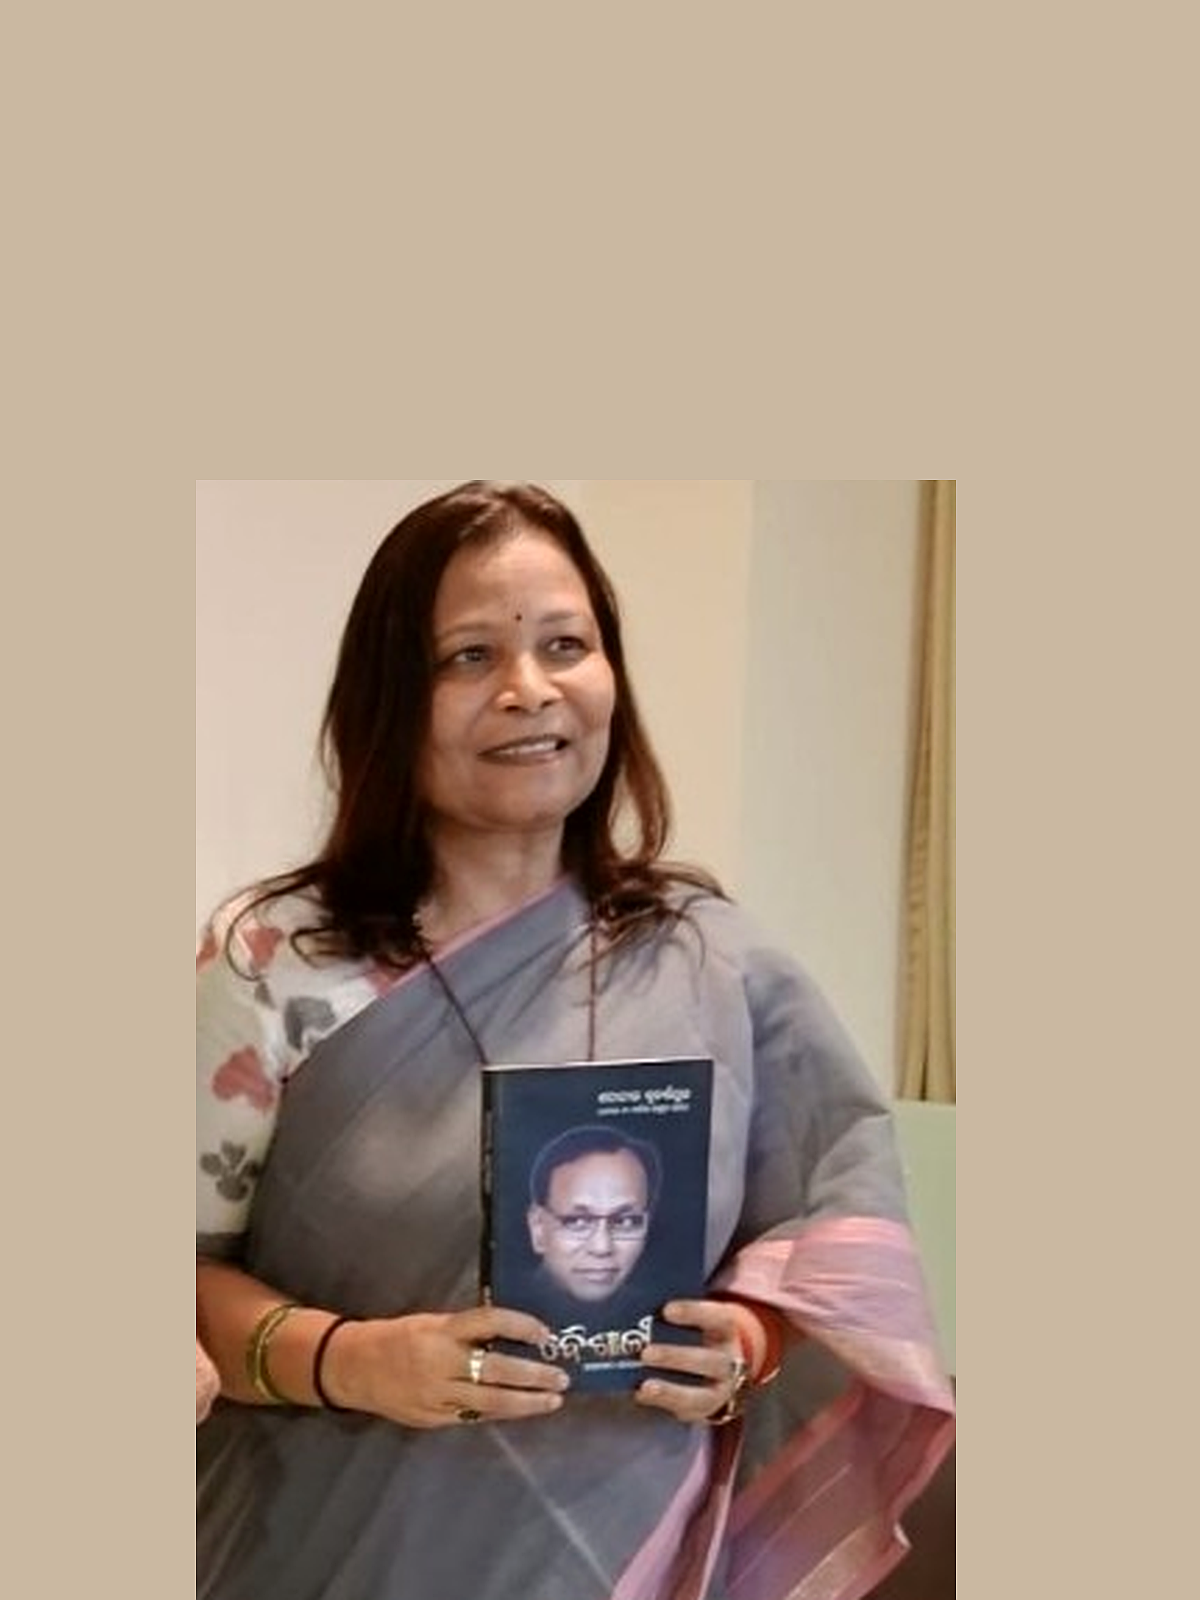
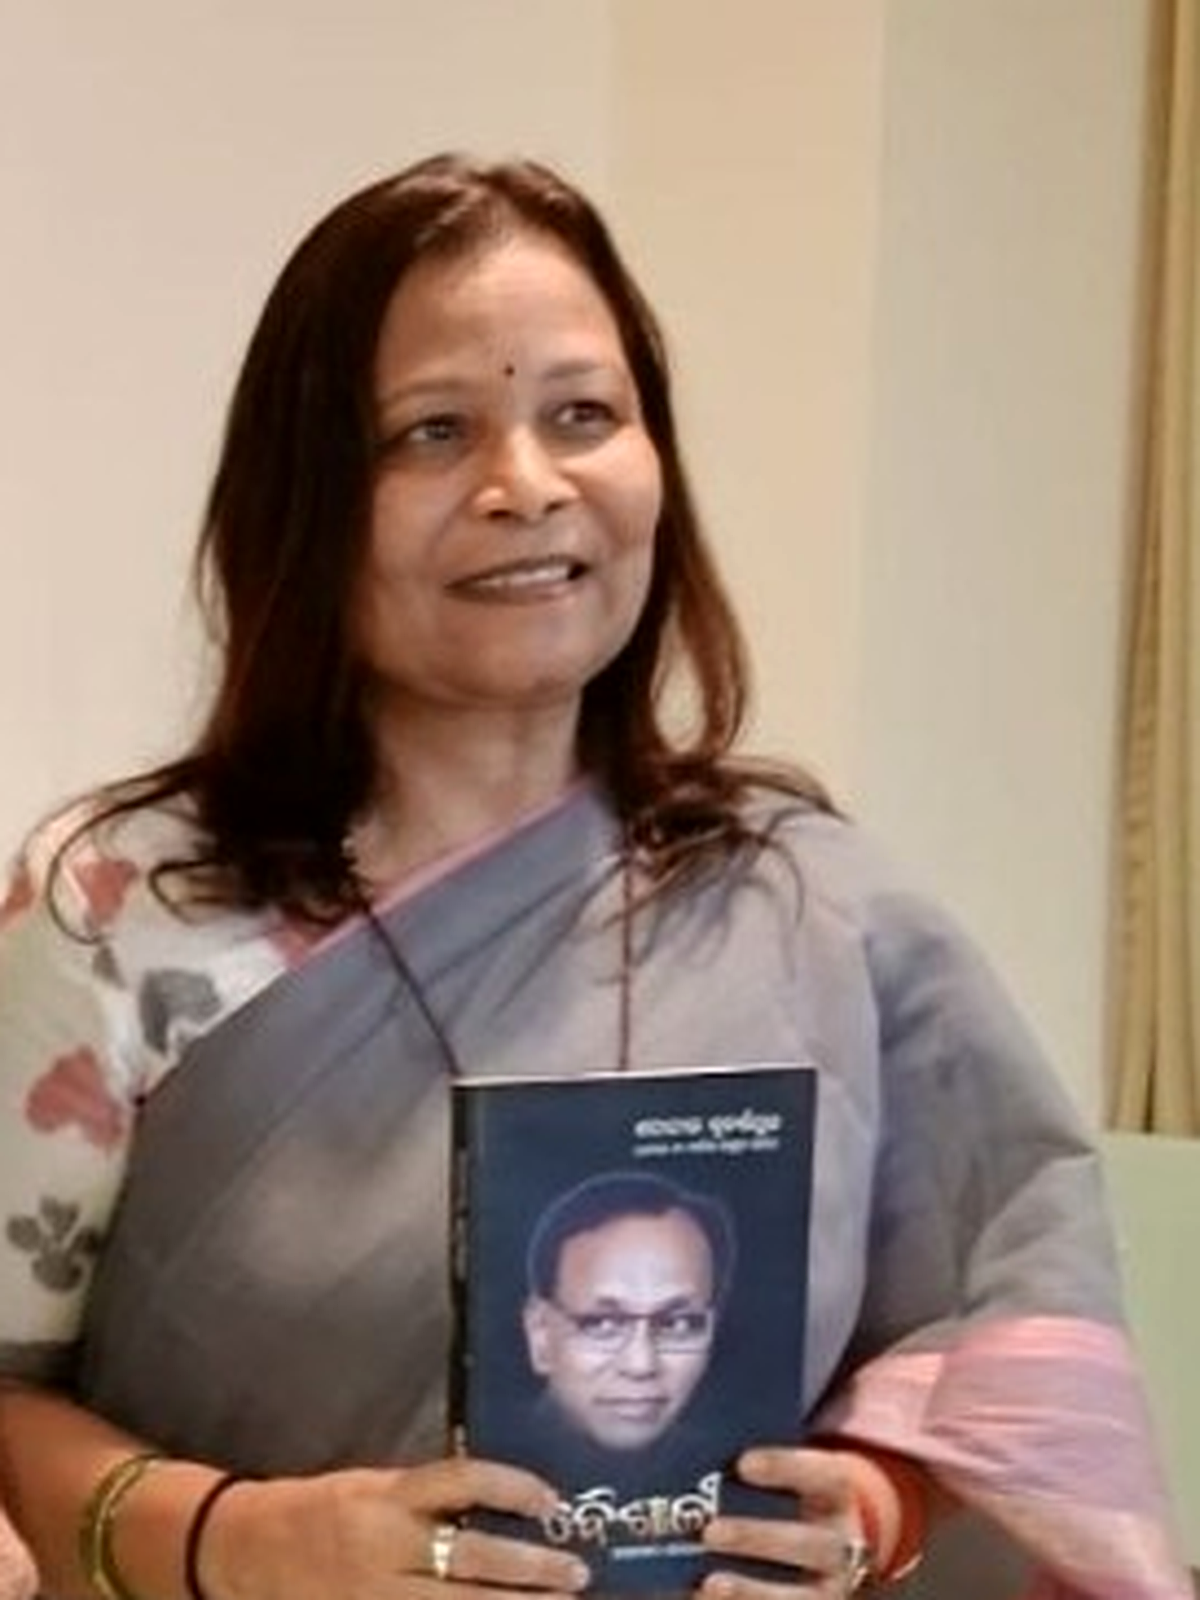
Remove hero letterbox so the portrait fills the frame.
Drop the padded beige box and use a tight full-bleed crop aligned with the hero copy.

diff --git a/src/index.css b/src/index.css
@@ -391,16 +391,15 @@ button {
   margin-inline: auto;
   border-radius: 0.15rem;
   overflow: hidden;
-  background: #caa891;
+  background: #c9d2cd;
   box-shadow: 0 24px 48px rgba(18, 24, 22, 0.12);
 }
 
 .hero-visual img {
   width: 100%;
   height: 100%;
-  /* Never clip the crown — headroom is baked into the asset */
-  object-fit: contain;
-  object-position: center center;
+  object-fit: cover;
+  object-position: center top;
 }
 
 .hero-visual::after {

diff --git a/src/App.tsx b/src/App.tsx
@@ -175,7 +175,7 @@ export default function App() {
               </div>
               <figure className="hero-visual">
                 <img
-                  src="/images/face-portrait.png?v=3in"
+                  src="/images/face-portrait.png?v=fill"
                   alt="Smt. Nibedita Nayak"
                   width={1200}
                   height={1600}

diff --git a/scripts/crop_face_final.py b/scripts/crop_face_final.py
@@ -1,4 +1,4 @@
-"""Crop hero portrait: full crown visible with ~3 inch (30%) headroom."""
+"""Crop hero portrait: full face, modest headroom, fills the frame (no letterbox pad)."""
 from pathlib import Path
 
 from PIL import Image, ImageEnhance, ImageFilter
@@ -23,27 +23,25 @@ hair = next(
     if row_min(y) < 135 and row_min(min(fh - 1, y + 5)) < 125
 )
 
-OUT_W, OUT_H = 1200, 1600
-CROWN_Y = int(0.30 * OUT_H)  # ~3 inch gap on hero — never clip hair
+# Modest real headroom from the photo (~8%) — not a fake padded box
+below = fh - hair
+headroom = max(16, int(0.08 * (below + 40)))
+top = max(0, hair - headroom)
+crop = face.crop((0, top, fw, fh))
 
-body = face.crop((0, hair, fw, fh))
-bw, bh = body.size
-body_h = OUT_H - CROWN_Y
-scale = body_h / bh
-body_w = int(bw * scale)
-body_r = body.resize((body_w, body_h), Image.Resampling.LANCZOS)
+tw, th = crop.size
+ratio = 3 / 4
+if tw / th > ratio:
+    nw = int(th * ratio)
+    x0 = max(0, int((tw - nw) * 0.38))
+    crop = crop.crop((x0, 0, x0 + nw, th))
+else:
+    nh = int(tw / ratio)
+    crop = crop.crop((0, 0, tw, min(th, nh)))
 
-wall = face.getpixel((fw // 2, max(0, hair // 2)))
-canvas = Image.new("RGB", (OUT_W, OUT_H), wall)
-x0 = max(0, (OUT_W - body_w) // 2 - int(OUT_W * 0.02))
-if body_w > OUT_W:
-    cx = int((body_w - OUT_W) * 0.38)
-    body_r = body_r.crop((cx, 0, cx + OUT_W, body_h))
-    x0 = 0
-canvas.paste(body_r, (x0, CROWN_Y))
-
-out = ImageEnhance.Sharpness(canvas).enhance(1.25)
-out = ImageEnhance.Contrast(out).enhance(1.04)
-out = out.filter(ImageFilter.UnsharpMask(radius=1.0, percent=70, threshold=2))
+out = crop.resize((1200, 1600), Image.Resampling.LANCZOS)
+out = ImageEnhance.Sharpness(out).enhance(1.3)
+out = ImageEnhance.Contrast(out).enhance(1.05)
+out = out.filter(ImageFilter.UnsharpMask(radius=1.0, percent=80, threshold=2))
 out.save(base / "face-portrait.png", optimize=True, quality=95)
-print(f"saved face-portrait.png crown_locked_at={CROWN_Y}px (30% / ~3in headroom)")
+print(f"saved face-portrait.png hair={hair} headroom={headroom}px (~8%, full photo fill)")
